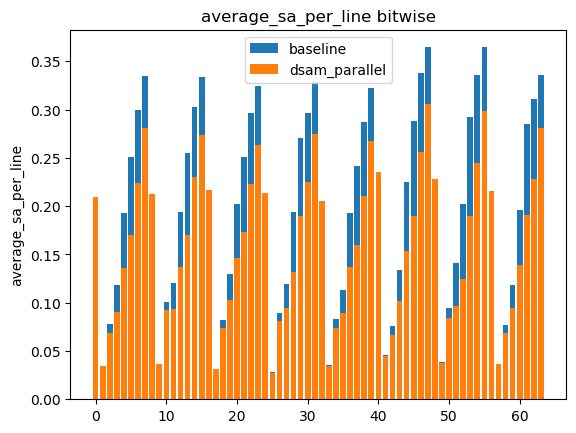
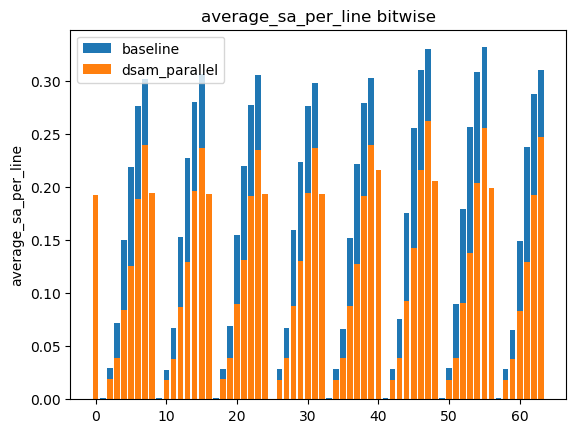
added transition-sample scatter plot

diff --git a/lib/graph.py b/lib/graph.py
@@ -2,6 +2,29 @@ import json
 import matplotlib.pyplot as plt
 import numpy as np
 
+def _get_total_samples(metrics):
+    # get layers and encoding schemes
+    layers = list(metrics.keys())
+    encoding_schemes = list(metrics[layers[0]].keys())
+    # total transitions
+    total_samples = {}
+    for encoding_scheme in encoding_schemes:
+        total_samples[encoding_scheme] = 0
+    # iterate over layers
+    for layer in layers:
+        for encoding_scheme in encoding_schemes:
+            total_samples[encoding_scheme] += metrics[layer][encoding_scheme]["total_samples"]
+    # return table of all samples
+    return total_samples
+
+def _get_average_metric(metrics, metric):
+    # get layers and encoding schemes
+    layers = list(metrics.keys())
+    encoding_schemes = list(metrics[layers[0]].keys())
+    # total transitions
+    total_samples = {}
+
+
 def plot_bitwise(metric_path, output_path, metric="total_transitions_per_line", single_layer="", encoding_scheme_filter=[], show_plot=True):
     # load the metrics
     with open(metric_path,"r") as f:
@@ -17,12 +40,14 @@ def plot_bitwise(metric_path, output_path, metric="total_transitions_per_line", 
         for encoding_scheme in encoding_schemes:
             bitwise_vals[encoding_scheme] = metrics[layer][encoding_scheme][metric]
     else:
+        total_samples = _get_total_samples(metrics)
         for encoding_scheme in encoding_schemes:
             bitwise_vals[encoding_scheme] = [0]*len(metrics[layers[0]][encoding_schemes[0]][metric])
         for layer in layers:
             for encoding_scheme in encoding_schemes:
                 for i in range(len(bitwise_vals[encoding_scheme])):
-                    bitwise_vals[encoding_scheme][i] += metrics[layer][encoding_scheme][metric][i]/len(layers)
+                    bitwise_vals[encoding_scheme][i] += metrics[layer][encoding_scheme][metric][i]*(
+                            metrics[layer][encoding_scheme]["total_samples"]/total_samples[encoding_scheme])
     # plot switching activity for each layer
     for encoding_scheme in encoding_schemes:
         plt.bar(np.arange(len(bitwise_vals[encoding_scheme])), bitwise_vals[encoding_scheme], label=encoding_scheme)
@@ -106,11 +131,13 @@ def plot_per_encoding_scheme(metric_path, output_path, metric="total_transitions
     if not encoding_schemes:
         encoding_schemes = list(metrics[layers[0]].keys())
     vals = {}
+    total_samples = _get_total_samples(metrics)
     for encoding_scheme in encoding_schemes:
         vals[encoding_scheme] = 0
     for layer in layers:
         for encoding_scheme in encoding_schemes:
-            vals[encoding_scheme] += metrics[layer][encoding_scheme][metric]/len(layers)
+            vals[encoding_scheme] += metrics[layer][encoding_scheme][metric]*(
+                    metrics[layer][encoding_scheme]["total_samples"]/total_samples[encoding_scheme])
     # plot switching activity for each layer
     vals = [ vals[encoding_scheme] for encoding_scheme in encoding_schemes ]
     plt.bar(encoding_schemes, vals)
@@ -118,6 +145,35 @@ def plot_per_encoding_scheme(metric_path, output_path, metric="total_transitions
     plt.xticks(rotation=45)
     plt.title("{} per encoding scheme".format(metric))
     plt.ylabel(metric)
+    plt.savefig(output_path,bbox_inches='tight')
+    if show_plot:
+        plt.show()
+
+def plot_transitions_per_samples(metric_path, output_path, encoding_scheme_filter=[], show_plot=True):
+    # load the metrics
+    with open(metric_path,"r") as f:
+        metrics = json.load(f)
+    # get all the layers
+    layers = list(metrics.keys())
+    # get all encoding schemes
+    encoding_schemes = encoding_scheme_filter
+    if not encoding_schemes:
+        encoding_schemes = list(metrics[layers[0]].keys())
+    vals = {}
+    for encoding_scheme in encoding_schemes:
+        vals[encoding_scheme] = 0
+    total_samples = _get_total_samples(metrics)
+    for layer in layers:
+        for encoding_scheme in encoding_schemes:
+            vals[encoding_scheme] += metrics[layer][encoding_scheme]["total_transitions"]
+    print(total_samples)
+    for encoding_scheme in encoding_schemes:
+        plt.scatter([total_samples[encoding_scheme]],[vals[encoding_scheme]], label=encoding_scheme)
+    #plt.ylim(bottom=0)
+    #plt.xticks(rotation=45)
+    plt.title("Total Transitions")
+    plt.ylabel("Transitions")
+    plt.ylabel("Samples")
     plt.savefig(output_path,bbox_inches='tight')
     if show_plot:
         plt.show()

diff --git a/scripts/graph_featuremap.py b/scripts/graph_featuremap.py
@@ -13,12 +13,12 @@ if __name__ == "__main__":
     args = parser.parse_args()
     
     # plot switching activity per layer
-    #lib.graph.plot_per_layer(os.path.join(args.metric_path,"output_metrics.json"), os.path.join(args.metric_path,"sa_per_layer.png"), 
-    #        metric="average_sa", encoding_scheme_filter=[], show_plot=True)
+    lib.graph.plot_per_layer(os.path.join(args.metric_path,"output_metrics.json"), os.path.join(args.metric_path,"sa_per_layer.png"), 
+            metric="average_sa", encoding_scheme_filter=[], show_plot=True)
 
     # plot transitions per layer
-    #lib.graph.plot_per_layer(os.path.join(args.metric_path,"output_metrics.json"), os.path.join(args.metric_path,"transitions_per_layer.png"), 
-    #        metric="total_transitions", encoding_scheme_filter=[], show_plot=True)
+    lib.graph.plot_per_layer(os.path.join(args.metric_path,"output_metrics.json"), os.path.join(args.metric_path,"transitions_per_layer.png"), 
+            metric="total_transitions", encoding_scheme_filter=[], show_plot=True)
 
     # plot bitwise transitions
     lib.graph.plot_bitwise(os.path.join(args.metric_path,"output_metrics.json"), os.path.join(args.metric_path,"bitwise_transitions.png"),
@@ -26,4 +26,6 @@ if __name__ == "__main__":
 
     lib.graph.plot_per_encoding_scheme(os.path.join(args.metric_path,"output_metrics.json"), os.path.join(args.metric_path,"sa_per_encoding_scheme.png"),
             metric="average_sa", encoding_scheme_filter=[], show_plot=True)
-#def plot_bitwise(metric_path, output_path, metric="total_transitions_per_line", single_layer="", encoding_scheme_filter=[], show_plot=True):
+
+    lib.graph.plot_transitions_per_samples(os.path.join(args.metric_path,"output_metrics.json"), os.path.join(args.metric_path,"sa_per_encoding_scheme.png"), 
+            encoding_scheme_filter=[], show_plot=True)
